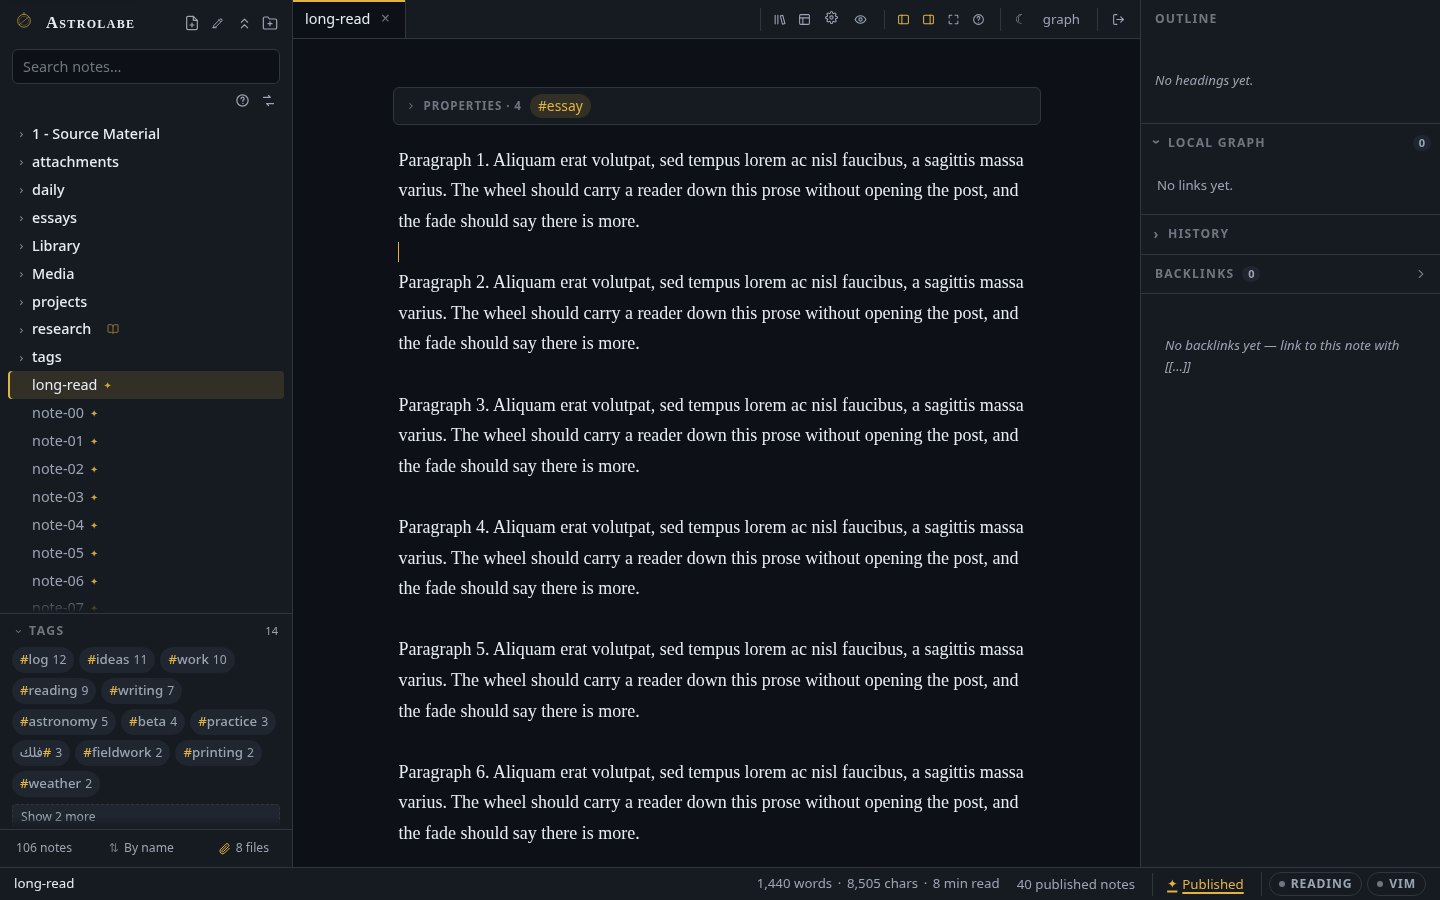
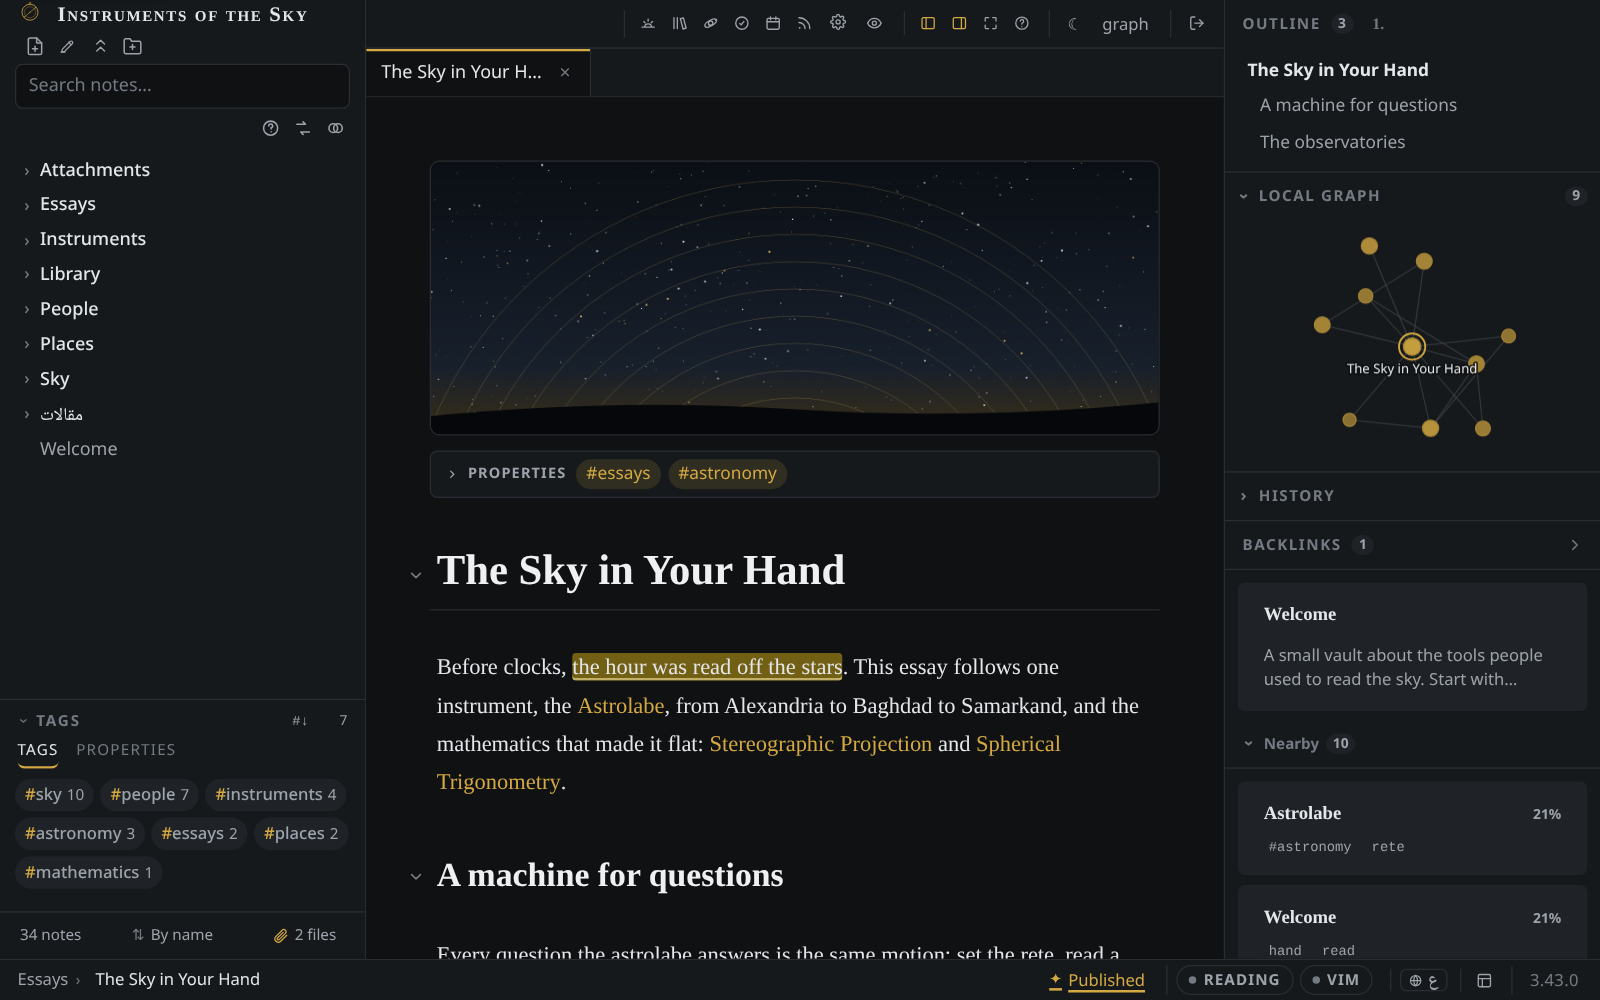
3.44.0: A new default look — Astrolabe Dark and Astrolabe Light, neutral grounds with gold only as the accent; the README, the pages site and the manual retaken in it; the version in its three places
- Generated covers in the two rooms start from a cool hue (218): an accent-
  hued wash across a card or a home hero was the yellow cast to avoid.
- Captures from a sample vault about historical sky instruments: the README
  banner and gallery, the og:image (docs/brand/hero.html in the new palette),
  and the manual's editor, graph, palette, blog, library, annotation and
  48-theme grid. library-lesson.png, unused, removed.
- 3.43.0's "Arabic, whole" slide becomes a DOM demo; check-deck refuses
  right-to-left text inside an SVG drawing.
- check-phone closes a device shape's own browser when the shape is done
  instead of at the end of the run.

diff --git a/client/whatsnew/releaseNotes.ts b/client/whatsnew/releaseNotes.ts
@@ -498,9 +498,76 @@ function presenceModesSvg(lang: Lang): string {
 </svg>`;
 }
 
+// ── 3.43.0: Arabic, whole ───────────────────────────────────────────────────
+
+/** The same vocalised heading twice, as real text (an SVG cannot shape it):
+ *  at Latin display leading with its rule close under it, and at the leading
+ *  and clearance a right-to-left heading takes now. */
+function arabicWholeDemo(host: HTMLElement, lang: Lang): void {
+  const wrap = el("div", "s-wn-arw");
+  for (const [mod, label] of [
+    ["before", L(lang, "before", "قبل")],
+    ["now", L(lang, "now", "الآن")],
+  ] as const) {
+    const card = el("div", `s-wn-arw__card s-wn-arw__card--${mod}`);
+    card.appendChild(el("div", "s-wn-arw__label", label));
+    const h = el("div", "s-wn-arw__h", "عُنْوَانٌ طَوِيلٌ بِالتَّشْكِيلِ فِي أُصُولِ اليَقِينِ");
+    h.lang = "ar";
+    h.dir = "rtl";
+    card.appendChild(h);
+    wrap.appendChild(card);
+  }
+  host.replaceChildren(wrap);
+}
+
 // ── The registry ────────────────────────────────────────────────────────────
 
 export const RELEASES: Release[] = [
+  {
+    version: "3.44.0",
+    title: { en: "A new default look", ar: "مظهر افتراضي جديد" },
+    slides: [
+      {
+        // ── Two rooms: neutral grounds, gold only where something can be acted on ──
+        title: { en: "Astrolabe Dark and Astrolabe Light", ar: "أسطرلاب داكن وأسطرلاب فاتح" },
+        body: {
+          en: "Two new themes are now the default. The surfaces are neutral greys and the text is a plain off-white, tuned for long reading in both languages; gold is kept for the logo, links, the active tab and highlights. Generated covers on the blog take a cool night-sky tone instead of a gold wash. Every other theme is still in Settings → Appearance, and a theme you chose before stays chosen.",
+          ar: "صارت سمتان جديدتان هما الافتراضيتين. الأسطح رمادية محايدة والنص أبيض مكسور صافٍ، مضبوطان للقراءة الطويلة باللغتين؛ ويبقى الذهبي للشعار والروابط والتبويب النشط والتظليل. وتأخذ أغلفة المدونة المولّدة لونًا باردًا كسماء الليل بدل الغلالة الذهبية. وكل السمات الأخرى باقية في الإعدادات ← المظهر، والسمة التي اخترتها من قبل تبقى كما هي.",
+        },
+        visual: {
+          kind: "svg",
+          svg: (lang) => `<svg viewBox="0 0 560 220" xmlns="http://www.w3.org/2000/svg" font-family="ui-sans-serif, system-ui, sans-serif" font-size="12">
+  <rect x="12" y="12" width="536" height="196" rx="12" fill="var(--bg-raised)" stroke="var(--border)"/>
+  <g class="wa-late" style="--i:1">
+    <rect x="32" y="34" width="236" height="154" rx="10" fill="#0f1113" stroke="#2a2e33"/>
+    <rect x="32" y="34" width="62" height="154" rx="10" fill="#16191c"/>
+    <text x="110" y="66" fill="#eef0f2" font-size="15" font-weight="700" font-family="Georgia, serif">${L(lang, "On marginalia", "في الهوامش")}</text>
+    <rect x="110" y="80" width="140" height="6" rx="3" fill="#9da3aa" opacity=".55"/>
+    <rect x="110" y="94" width="120" height="6" rx="3" fill="#9da3aa" opacity=".55"/>
+    <rect x="110" y="108" width="54" height="6" rx="3" fill="#d4a942"/>
+    <rect x="42" y="50" width="42" height="6" rx="3" fill="#d4a942"/>
+    <rect x="42" y="64" width="34" height="5" rx="2.5" fill="#737a82"/>
+    <rect x="42" y="76" width="38" height="5" rx="2.5" fill="#737a82"/>
+    <text x="150" y="176" text-anchor="middle" fill="#9da3aa" font-size="10">${L(lang, "Astrolabe Dark", "أسطرلاب داكن")}</text>
+  </g>
+  <g class="wa-late" style="--i:2">
+    <rect x="292" y="34" width="236" height="154" rx="10" fill="#fcfcfb" stroke="#dcdddb"/>
+    <rect x="292" y="34" width="62" height="154" rx="10" fill="#f4f4f3"/>
+    <text x="370" y="66" fill="#141619" font-size="15" font-weight="700" font-family="Georgia, serif">${L(lang, "On marginalia", "في الهوامش")}</text>
+    <rect x="370" y="80" width="140" height="6" rx="3" fill="#565b62" opacity=".5"/>
+    <rect x="370" y="94" width="120" height="6" rx="3" fill="#565b62" opacity=".5"/>
+    <rect x="370" y="108" width="54" height="6" rx="3" fill="#8a6410"/>
+    <rect x="302" y="50" width="42" height="6" rx="3" fill="#8a6410"/>
+    <rect x="302" y="64" width="34" height="5" rx="2.5" fill="#7b8087"/>
+    <rect x="302" y="76" width="38" height="5" rx="2.5" fill="#7b8087"/>
+    <text x="410" y="176" text-anchor="middle" fill="#565b62" font-size="10">${L(lang, "Astrolabe Light", "أسطرلاب فاتح")}</text>
+  </g>
+</svg>`,
+        },
+        docs: "theming",
+      },
+    ],
+  },
   {
     version: "3.43.0",
     title: { en: "Written now, out later", ar: "يُكتب الآن ويخرج لاحقًا" },
@@ -606,28 +673,7 @@ export const RELEASES: Release[] = [
           en: "Arabic marks sit above and below the line, and now they always get the room they need: the shadda and damma over a tab title or an outline row, the kasra of one heading line above the damma of the next, the descenders under a title's hairline. Headings and titles written right to left take the room their marks need, single-line labels clip only sideways, and a long note's outline keeps its rows full height. English text keeps its own spacing.",
           ar: "تقع علامات العربية فوق السطر وتحته، وصارت تأخذ دائمًا المسافة التي تحتاجها: الشدّة والضمّة فوق عنوان تبويب أو صفّ في المخطط، وكسرة سطر من العنوان فوق ضمّة السطر الذي يليه، والحروف النازلة تحت الخطّ الرفيع للعنوان. فالعناوين المكتوبة من اليمين إلى اليسار تأخذ المسافة التي تحتاجها علاماتها، ولا تُقصّ تسميات السطر الواحد إلا من الجانبين، ويحتفظ مخطط الملاحظة الطويلة بصفوفه كاملة الارتفاع. ويحتفظ النص الإنجليزي بتباعده الخاص.",
         },
-        visual: {
-          kind: "svg",
-          svg: (lang) => `<svg viewBox="0 0 560 220" xmlns="http://www.w3.org/2000/svg" font-family="'Noto Naskh Arabic', serif" font-size="12">
-  <rect x="12" y="12" width="536" height="196" rx="12" fill="var(--bg-raised)" stroke="var(--border)"/>
-  <g font-family="ui-sans-serif, system-ui, sans-serif" font-size="9" fill="var(--text-faint)">
-    <text x="146" y="34" text-anchor="middle">${L(lang, "before", "قبل")}</text>
-    <text x="414" y="34" text-anchor="middle">${L(lang, "now", "الآن")}</text>
-  </g>
-  <rect x="28" y="42" width="236" height="150" rx="8" fill="var(--bg)" stroke="var(--border)"/>
-  <g direction="rtl" text-anchor="end" font-size="22" font-weight="700" fill="var(--text)">
-    <text x="250" y="88">عُنْوَانٌ طَوِيلٌ بِالتَّشْكِيلِ</text>
-    <text x="250" y="114">فِي أُصُولِ اليَقِينِ</text>
-  </g>
-  <path d="M40 121 h212" stroke="var(--text-muted)" stroke-width="1"/>
-  <rect x="296" y="42" width="236" height="150" rx="8" fill="var(--bg)" stroke="var(--accent)"/>
-  <g class="wa-late" style="--i:1" direction="rtl" text-anchor="end" font-size="22" font-weight="700" fill="var(--text)">
-    <text x="518" y="88">عُنْوَانٌ طَوِيلٌ بِالتَّشْكِيلِ</text>
-    <text x="518" y="126">فِي أُصُولِ اليَقِينِ</text>
-  </g>
-  <path class="wa-draw" d="M308 150 h212" stroke="var(--text-muted)" stroke-width="1"/>
-</svg>`,
-        },
+        visual: { kind: "demo", mount: arabicWholeDemo },
         docs: "arabic-and-rtl",
       },
     ],

diff --git a/docs/index.html b/docs/index.html
@@ -167,15 +167,15 @@
 <section>
   <div class="wrap">
     <div class="feat">
-      <img class="shot" src="screenshots/library-shelf.png" alt="The library page of a published site: a course card with its lesson count and progress">
+      <img class="shot" src="screenshots/library-shelf.png" alt="The library page of a published site: a course card with its lessons and reading time">
       <div class="feat-text"><div class="kicker ui">The library</div><h3>Books and courses, read in order</h3><p>Right-click a folder and put it on the shelf as a book, a course or a series. Its subfolders become chapters and its published notes lessons. Readers get a contents list, their place kept, and the arrow keys to move between lessons.</p></div>
     </div>
     <div class="feat">
-      <img class="shot" src="screenshots/graph.png" alt="The graph view, coloured by folder, with its settings panel">
+      <img class="shot" src="screenshots/graph.png" alt="The graph view, coloured by folder">
       <div class="feat-text"><div class="kicker ui">The graph</div><h3>Graph view</h3><p>Every wikilink as an edge. Colour notes by folder, tag or link count, hide unlinked notes, find a note, and adjust the forces. It stays responsive with thousands of notes.</p></div>
     </div>
     <div class="feat">
-      <img class="shot" src="screenshots/blog-dashboard.png" alt="A published site in blog mode: the masthead, topic navigation, the library shelf and the latest posts">
+      <img class="shot" src="screenshots/blog-dashboard.png" alt="A published site in blog mode: the masthead, the topic bar and the latest posts">
       <div class="feat-text"><div class="kicker ui">The blog</div><h3>Blog mode</h3><p>A masthead, a topic bar built from your tags, a home page of posts and a shelf for the library. RSS, a sitemap, meta tags rendered on the server, and reader comments that wait for your approval.</p></div>
     </div>
     <div class="feat">

diff --git a/client/whatsnew/versions.ts b/client/whatsnew/versions.ts
@@ -10,7 +10,7 @@
 // package.json to a new x.Y.0 without adding it here and to releaseNotes.ts,
 // and the gate fails the build, so a release cannot ship without its
 // preview.
-export const RELEASE_VERSIONS: readonly string[] = ["3.10.0", "3.11.0", "3.12.0", "3.13.0", "3.14.0", "3.15.0", "3.16.0", "3.17.0", "3.18.0", "3.19.0", "3.20.0", "3.21.0", "3.22.0", "3.23.0", "3.24.0", "3.25.0", "3.26.0", "3.27.0", "3.28.0", "3.29.0", "3.30.0", "3.31.0", "3.32.0", "3.33.0", "3.34.0", "3.35.0", "3.36.0", "3.37.0", "3.38.0", "3.39.0", "3.40.0", "3.41.0", "3.42.0", "3.43.0"];
+export const RELEASE_VERSIONS: readonly string[] = ["3.10.0", "3.11.0", "3.12.0", "3.13.0", "3.14.0", "3.15.0", "3.16.0", "3.17.0", "3.18.0", "3.19.0", "3.20.0", "3.21.0", "3.22.0", "3.23.0", "3.24.0", "3.25.0", "3.26.0", "3.27.0", "3.28.0", "3.29.0", "3.30.0", "3.31.0", "3.32.0", "3.33.0", "3.34.0", "3.35.0", "3.36.0", "3.37.0", "3.38.0", "3.39.0", "3.40.0", "3.41.0", "3.42.0", "3.43.0", "3.44.0"];
 
 /** Semver-ish compare on the numeric triple; anything else is 0. */
 export function compareVersions(a: string, b: string): number {

diff --git a/client/styles/tokens.css b/client/styles/tokens.css
@@ -318,8 +318,8 @@
 
      Both resolve at the consuming element, so they are safe to override per
      theme and a theme switch repaints live. */
-  --banner-tint: 66%;
-  --banner-hue: 43;
+  --banner-tint: 80%;
+  --banner-hue: 218;
 
   /* Font stacks. Latin-first is the default: a stack is consulted per
      CHARACTER, so on an English instance the Arabic faces are only ever
@@ -540,8 +540,11 @@
 
   --selection-bg: rgba(212, 169, 66, 0.26);
   --focus-ring: #d4a942;
-  --banner-tint: 66%;
-  --banner-hue: 43;
+  /* A generated cover starts from a cool night-sky hue rather than the gold:
+     gold stays the accent, and a gold-hued wash across a whole card or a
+     home hero is the yellow cast these rooms exist to avoid. */
+  --banner-tint: 80%;
+  --banner-hue: 218;
 
   --graph-node: #d4a942;
   --graph-edge: #4a5057;
@@ -594,8 +597,8 @@
 
   --selection-bg: rgba(138, 100, 16, 0.2);
   --focus-ring: #8a6410;
-  --banner-tint: 34%;
-  --banner-hue: 41;
+  --banner-tint: 40%;
+  --banner-hue: 218;
 
   --graph-node: #8a6410;
   --graph-edge: #b4b7bb;

diff --git a/client/styles/whatsnew.css b/client/styles/whatsnew.css
@@ -952,3 +952,43 @@
     transition: none;
   }
 }
+
+/* 3.43.0 · Arabic, whole: one heading at two leadings (releaseNotes.ts). */
+.s-wn-arw {
+  display: grid;
+  grid-template-columns: 1fr 1fr;
+  gap: 16px;
+  padding: 18px;
+  inline-size: 100%;
+  box-sizing: border-box;
+}
+.s-wn-arw__card {
+  padding: 12px 16px 18px;
+  border: 1px solid var(--border);
+  border-radius: 10px;
+  background: var(--bg);
+  min-width: 0;
+}
+.s-wn-arw__card--now {
+  border-color: var(--accent);
+}
+.s-wn-arw__label {
+  font-size: 11px;
+  color: var(--text-faint);
+  margin-block-end: 8px;
+}
+.s-wn-arw__h {
+  font-family: "Noto Naskh Arabic", var(--font-serif);
+  font-weight: 700;
+  font-size: 22px;
+  color: var(--heading);
+  border-block-end: 1px solid var(--text-muted);
+}
+.s-wn-arw__card--before .s-wn-arw__h {
+  line-height: 1.15;
+  padding-block-end: 0.1em;
+}
+.s-wn-arw__card--now .s-wn-arw__h {
+  line-height: 1.75;
+  padding-block-end: 0.45em;
+}

diff --git a/docs/brand/hero.html b/docs/brand/hero.html
@@ -4,7 +4,7 @@
      scripts/shoot-brand.mjs. Edit here, never in an image editor. -->
 <html lang="en"><head><meta charset="utf-8">
 <style>
-  :root { --bg: #0d1117; --raised: #161b22; --text: #e6edf3; --muted: #9aa4b2; --accent: #e3b341; --hi: #f0cd6a; --border: #30363d; }
+  :root { --bg: #0f1113; --raised: #16191c; --text: #e4e6e9; --muted: #9da3aa; --accent: #d4a942; --hi: #e6c46a; --border: #2a2e33; }
   * { margin: 0; box-sizing: border-box; }
   body { width: 1280px; height: 640px; background: var(--bg); color: var(--text); font-family: Georgia, "Iowan Old Style", "Times New Roman", serif; overflow: hidden; position: relative; }
   .glow { position: absolute; inset: 0; background:

diff --git a/contracts/releases.md b/contracts/releases.md
@@ -59,3 +59,4 @@ Where each release's contract now lives is named beside it. Before 3.10 the hist
 - **3.42.0** — **Discord presence**: off until switched on, Discord shows what you are doing — *Writing · Chapter 3*, *Reading a book*, *Reviewing cards · 12 left*, *Drawing*, *In the library* — through Discord's own local socket, spoken from scratch (`server/presence/discordIpc.ts`: discovery, handshake, one SET_ACTIVITY per 15 s and only on change, PING/PONG, backoff, clear on exit, silence when Discord is absent); one pure core in `shared/presence/` (reduce → policy → render) and two hosts with one sink — the desktop app owns the socket for every vault it has open, a self-hosted server speaks only with *This server runs beside Discord* on; every admin tab reports its surface and the note's PATH to its server, which judges the title (frontmatter `presence: false` and excluded tags withhold it, a path never leaves) and keeps the most recently active tab; a nineteenth Settings page, **Discord** (Mode · Application id · Idle after · When idle · Vault name · Elapsed time · Blog button · This server runs beside Discord · Status; Image source under Advanced); the mark and eight glyphs in `docs/brand/presence/`, hosted on the pages site; the manual in both languages and a What's new deck ([presence.md](presence.md)).
 - **3.42.1** — **A drawing's parts stay in their boxes** (the 3.42.0 slide drew its mark and pen outside their boxes, and older slides did the same): the What's new stage gives a drawing's parts motion rules that set `transform-origin` to the part's centre, and the SVG `transform` attribute turns about that origin too, so every part placed by its own `transform="translate(…) scale(…)"` or `rotate(…)` landed off its place — 3.42.0's mark outside its tile and its pen outside its badge, 3.38.0's pile of old tabs and 3.16.0's small icons; such a part is now wrapped and the motion given to the wrapper (`WhatsNew.tsx`, `holdPlace`), and check-deck measures every part against the same drawing cloned outside the stage ([shell.md](shell.md), "What's new"; [gates.md](gates.md)).
 - **3.43.0** — **Written now, out later; Arabic, whole**: `publish:` takes a date or a time and one timer releases the note at its minute ([public-site.md](public-site.md), "Scheduled publishing"); `goal:` counts against a word target and typewriter scrolling holds the writing line at the middle ([editor.md](editor.md), "Typewriter scrolling and the word goal"); Arabic marks are no longer cut by one-line labels, crossed by the h1 rule or run into the next heading line, held by `check-ink` ([i18n.md](i18n.md), "Arabic marks"); a published note's comments are no longer sent to, searched for or quoted to a visitor; Discord presence takes a built-in client id ([presence.md](presence.md)).
+- **3.44.0** — **A new default look**: two rooms, `astrolabe-dark` and `astrolabe-light`, become THEMES[0] and the light default — neutral grounds and off-white text, gold only as the accent; their generated covers start from a cool hue (218) instead of the accent's; every other room unchanged ([themes-tokens.md](themes-tokens.md)). The README, the pages site and the manual's captures retaken in it from a sample vault; 3.43.0's "Arabic, whole" slide is a DOM demo (check-deck refuses right-to-left text in a drawing); check-phone closes a device shape's browser when the shape is done ([gates.md](gates.md)).
